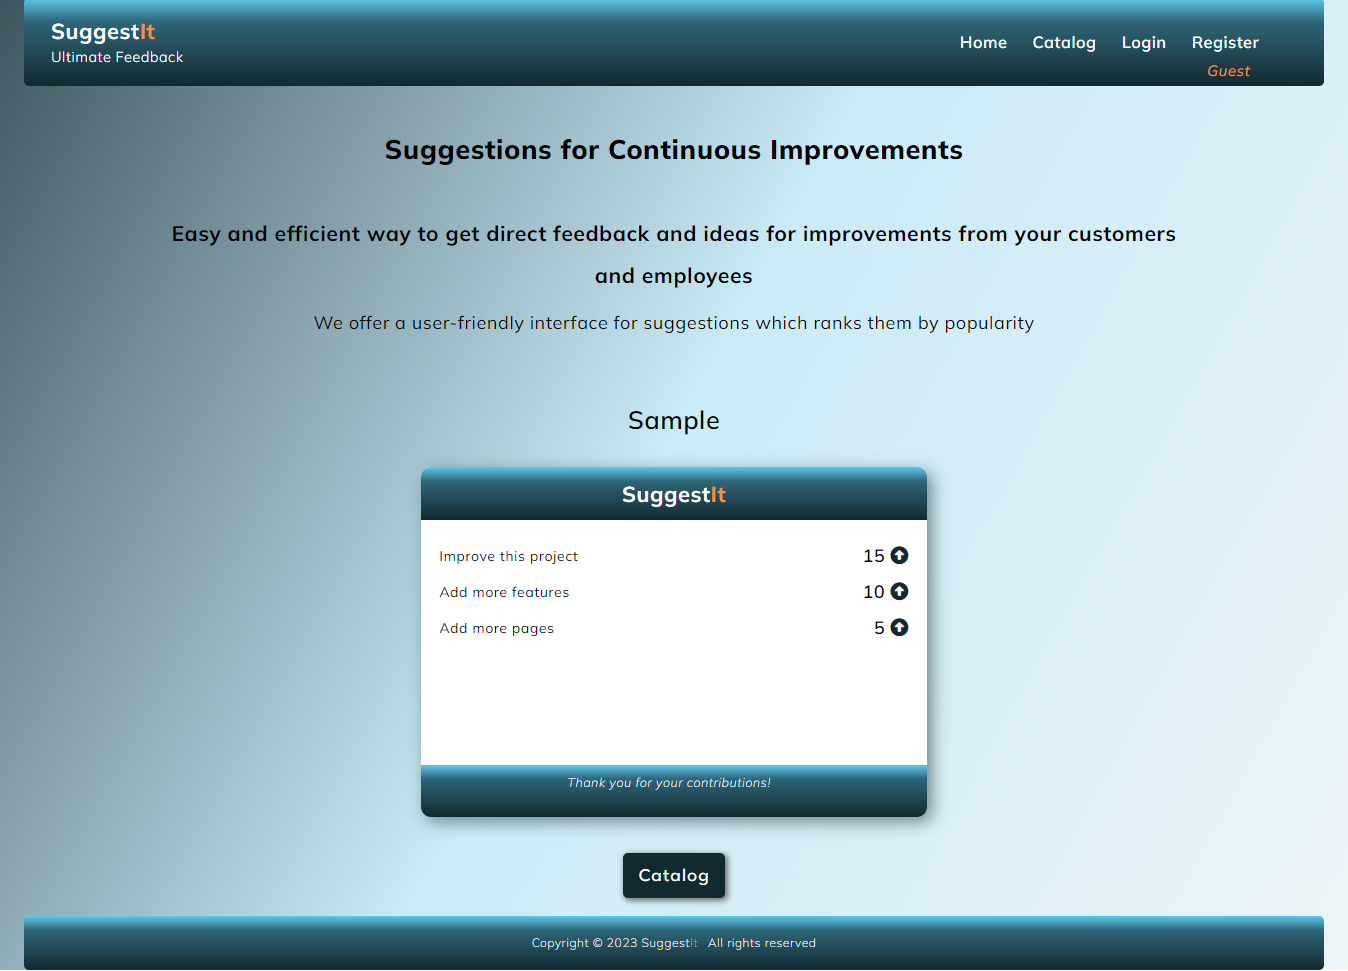
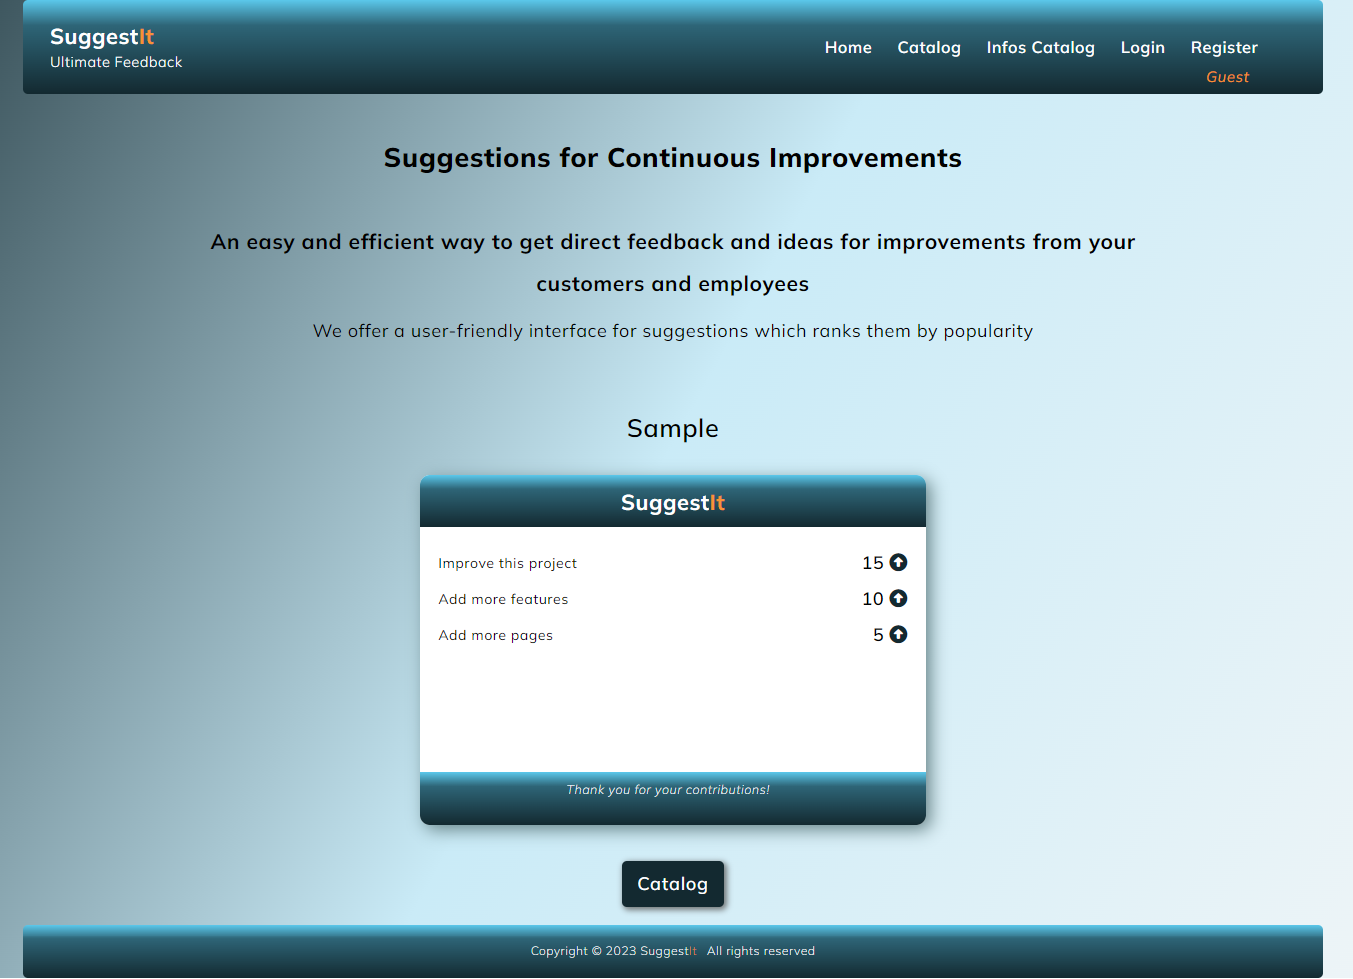
update readme

diff --git a/README.md b/README.md
@@ -1,11 +1,13 @@
 # Suggest<span style="color:#F79234">**It**</span>
 ## **Project Assignment: SPA with ReactJs**
+#
 
 
 This is a ReactJS project assignment for completing [SoftUni](https://softuni.bg/)
 ReactJS Course. Details of the assignment are available [here](https://github.com/zhenyahodges/SoftUni-Courses/blob/main/Front_End/REACT/REACT-PROJECT/ReactJS-Project-Assignment.docx).
 
  ### **Built with:**
+
  ReactJS, React Router, React Router DOM
 ### **Router:**
 
@@ -13,23 +15,26 @@ ReactJS Course. Details of the assignment are available [here](https://github.co
 
 
 ## **About**
+#
 
 Suggest<span style="color:#F79234">**It**</span> is a web application which provides a simple interface for receiving feedback and suggestions for improvements for companies.
 
-#
 
 ### <span style="color:#c2e2ee">**Welcome**</span>
+#
 <br>
 
 ![alt text](./readme-res/SuggestIt-Welcome-View.png "Welcome View")
 #
 
 ### <span style="color:#c2e2ee">Catalog</span>
-
-Guests & Logged Users can view the Catalog with feedback cards.
 #
 
+Guests & Logged Users can view the Catalog with feedback cards.
+
+
 ### <span style="color:#c2e2ee">**Details**</span>
+#
 
 Guests & Logged Users can view the Details of feedback cards.
 
@@ -44,15 +49,14 @@ Logged users, owners can:
 * Email card
 
 Guests cannot edit or delete a card, vote for or add a suggestion.
-#
 
-### <span style="color:#c2e2ee">Info Catalog</span>
-Additional Info Catalog.
-Guests & Logged Users can view the Catalog with info cards.
+
+### <span style="color:#c2e2ee">**Info Catalog**</span>
 #
+Additional Info Catalog.
 
 ### <span style="color:#c2e2ee">**Details**</span>
-
+#
 Guests & Logged Users can view the Details of info cards.
 
 Logged users, NOT owners can:
@@ -66,9 +70,9 @@ Logged users, owners can:
 * Email card
 
 Guests cannot edit or delete a card.
-#
 
 ### <span style="color:#c2e2ee">**Profile**</span>
+#
 
 Logged users can:
 * View their details
@@ -76,9 +80,9 @@ Logged users can:
 * View a list of the suggestions they made, edit & delete them.
 * Create new feedback cards
 
-#
 
 ## **Validations & Error Handling**
+#
 
 ### **Inputs: Register**
 
